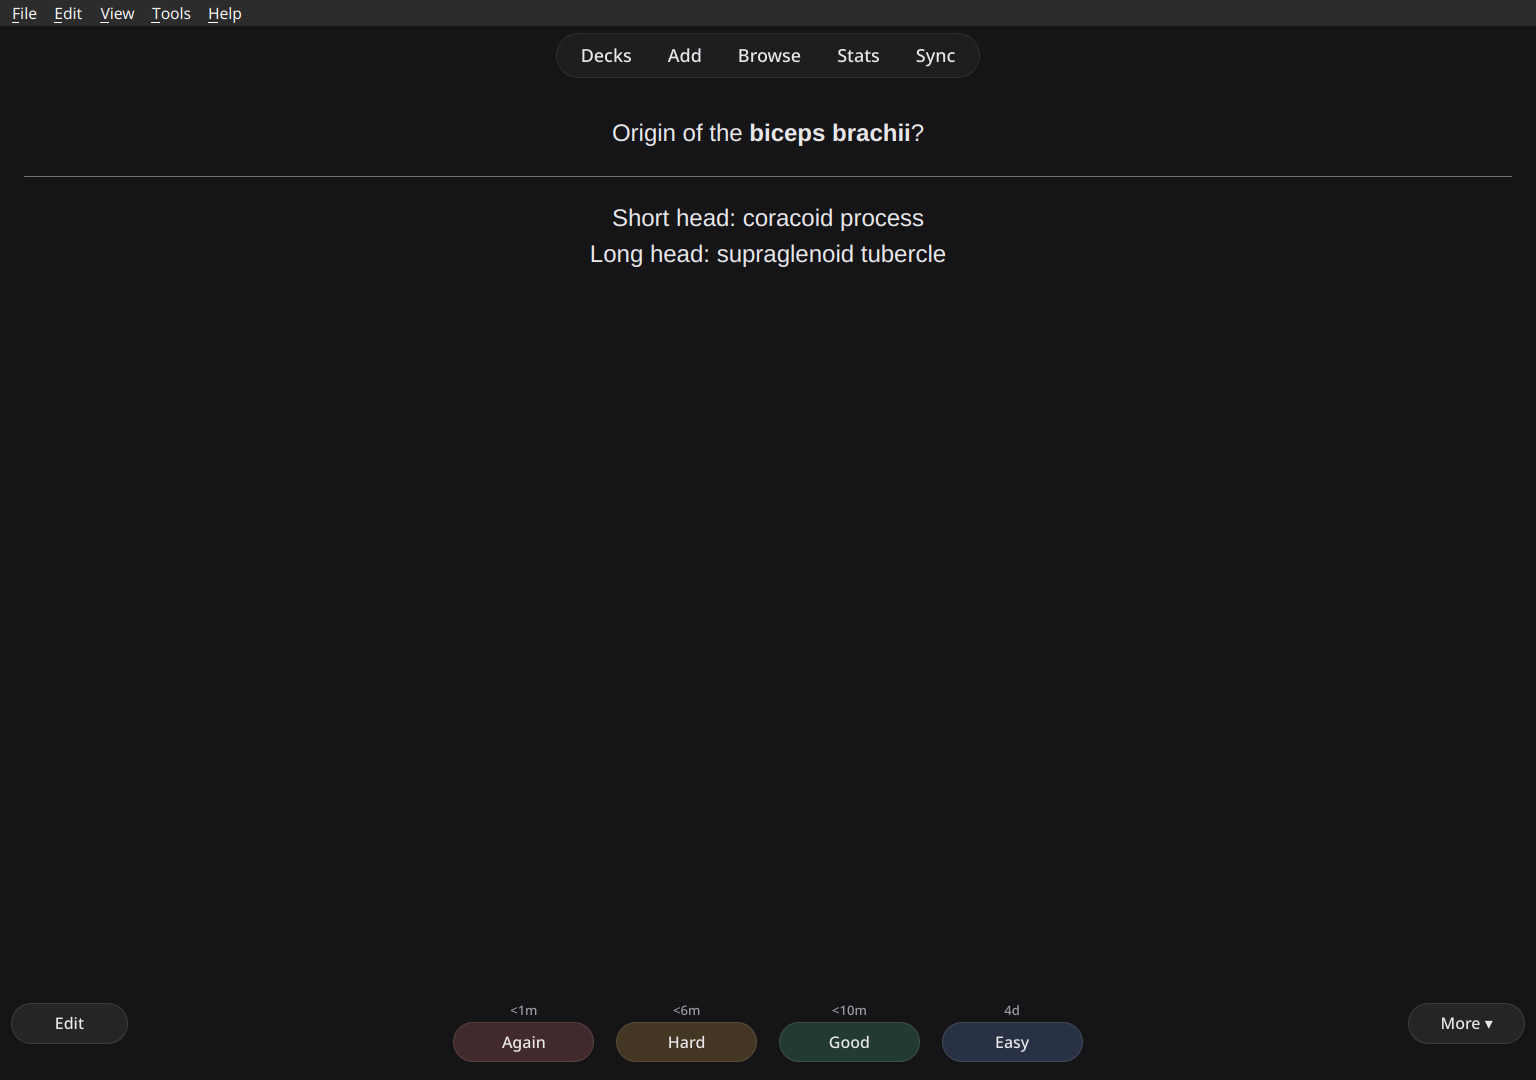
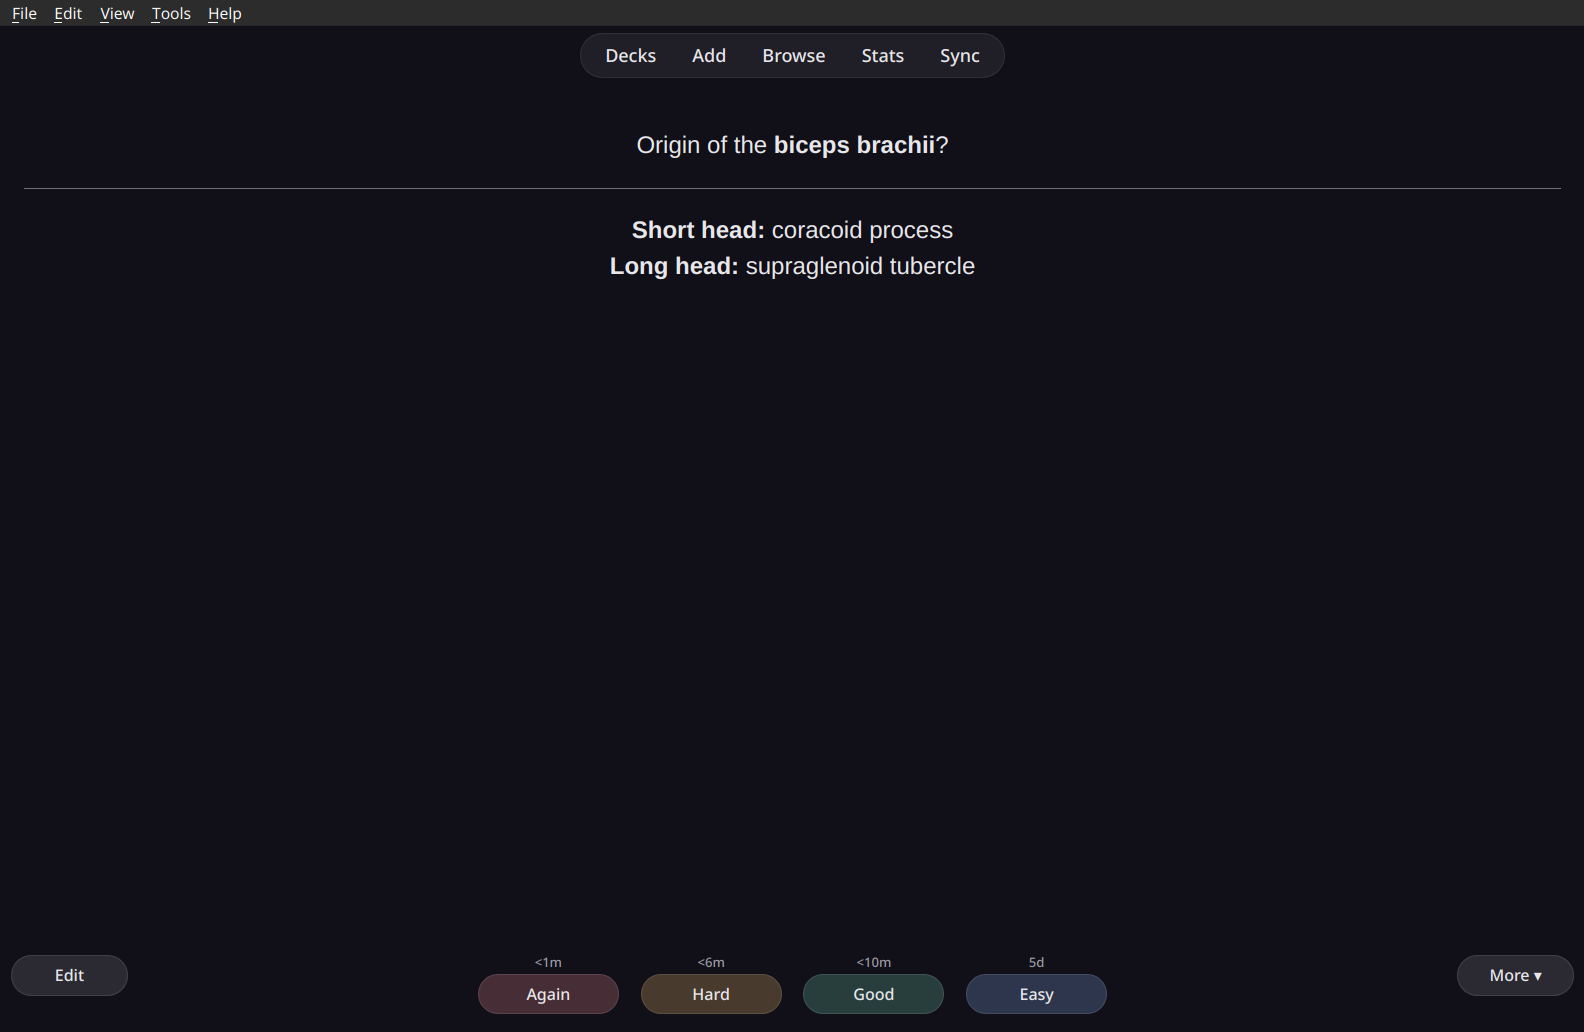
New English screenshots and refreshed README

diff --git a/README.md b/README.md
@@ -1,51 +1,71 @@
 # Deckorator
 
-**Decorate your Anki decks.** A modern, customizable theme for Anki's deck list, overview and study screen. It stays quiet while you study.
+**Decorate your Anki decks.** A modern, customizable theme for Anki's deck list, overview, study screen and windows. It stays quiet while you study.
 
-![Deck list with spotlight background](screenshots/home-dark.png)
+![Lofi city theme pack](screenshots/home-lofi.png)
 
 **Install:** in Anki go to *Tools → Add-ons → Get Add-ons…* and enter **`1326296861`**
 ([AnkiWeb page](https://ankiweb.net/shared/info/1326296861))
 
 ## Features
 
-- **46 theme packs**, including the Omarchy color themes for a complete look in one click: illustrated (Fuji, lofi city, sakura, mountains, planet, flow lines, topography, Bauhaus) and photo wallpapers
-- **Illustrated wallpapers** drawn for Deckorator: they take on your accent color and have light and dark versions
-- **Banner in the top bar** behind Decks, Add, Browse …
-- **My designs**: save your look, or turn any wallpaper into a complete theme (accent and tones adapt), share as a .deckorator file
+**Looks**
+- **46 theme packs** for a complete look in one click: illustrations, photos, the Omarchy color themes (Catppuccin, Gruvbox, Nord, Tokyo Night …) and minimal patterns
+- **Illustrated wallpapers** drawn for Deckorator that take on your accent color, with light and dark versions
+- **My designs**: save your look or turn any wallpaper into a complete theme (accent and tones adapt), share as `.deckorator` files
+- **Online gallery**: browse wallpapers from Omarchy and ML4W on GitHub and use them as designs
+- **21 color presets**, a quick color pick, or take the accent from your **system** or **desktop wallpaper**
+- **Backgrounds**: spotlight, dot grid, line grid, grain, waves, illustration, your own image (also a separate one for dark mode) or your **desktop wallpaper**
+- **Banner** behind the top bar, or only inside the tab capsule
+
+**Studying**
+- **Calm study mode**: the background stays quiet so the card comes first
+- **Card designs**: six styles for any note type, previewed on your own cards and fully reversible
+- Readable review counters, answer buttons tinted by rating, "studied today" highlighted
+
+**Windows & add-ons**
+- **Card browser, editor, statistics, deck options, preferences and add-ons window** in the same style, bold or subtle
+- **Every area adjustable**: Deckorator look or Anki's original, per window
 - **Add-on center**: your add-ons as cards with a switch, settings and page link
-- **Plays well with other add-ons**: their content below the deck list gets a matching card; other theme add-ons are detected
-- **Online gallery**: browse wallpapers from Omarchy and ML4W on GitHub and turn them into designs
-- **Card designs**: six styles for any note type (clean, index card, minimal, focus, study notes, like my theme), previewed on your own cards and fully reversible
-- **Every area adjustable**: bold, subtle or Anki's original look, per window
-- **8 color presets** or your own accent color. The accent can also come from your **system accent color** or your **desktop wallpaper**.
-- **Backgrounds:** spotlight, dot grid, line grid, grain, waves, your own image, or your **desktop wallpaper**. The wallpaper is re-synced on every start, and live/video wallpapers become a still image.
-- **Calm study mode:** while you review, the background stays quiet so the card comes first.
-- **Readable review counters** (new / learning / review) and tinted answer buttons
-- **"Studied today" highlighted** on the home screen
-- **[Review Heatmap](https://ankiweb.net/shared/info/1771074083) support:** fully restyled, colors only, or left untouched
-- **Performance mode:** on weak laptops (4 CPU threads or less, software rendering, on battery) blur is switched off automatically
-- **Card browser, editor, statistics, deck options, preferences and add-ons window** in the same style (flag, marked and suspended colors stay as in Anki), each can be switched off
-- **Settings window with a live preview of your own decks and cards**, light and dark mode, theme export and import
+- Content other add-ons place below the deck list gets a matching card; other theme add-ons are detected
+- **[Review Heatmap](https://ankiweb.net/shared/info/1771074083) support**: fully restyled, colors only, or left untouched
+
+**Comfort**
+- **Performance mode**: blur is switched off automatically on weak laptops; glow effects can be turned off
+- **Settings window with a live preview** of your own decks, cards and windows, light and dark
 - English and German interface, follows Anki's language
 
-| Waves, dark | Dot grid, light |
+## Screenshots
+
+| Fuji with banner in the tab bar | Catppuccin (Omarchy color theme) |
 |---|---|
-| ![Waves background](screenshots/home-waves-dark.png) | ![Dot grid background, light mode](screenshots/home-light.png) |
+| ![Fuji](screenshots/home-fuji.png) | ![Catppuccin](screenshots/home-catppuccin.png) |
 
-| Studying: question | Studying: answer |
+| Winter, dark mode (aurora photo) | Clouds, light mode |
 |---|---|
-| ![Calm study screen with counters](screenshots/study-question.png) | ![Answer buttons tinted by rating](screenshots/study-answer.png) |
+| ![Winter dark](screenshots/home-winter-dark.png) | ![Clouds light](screenshots/home-clouds-light.png) |
 
-![Card browser](screenshots/browser.png)
+| Calm study screen | Answer buttons tinted by rating |
+|---|---|
+| ![Study question](screenshots/study-question.png) | ![Study answer](screenshots/study-answer.png) |
 
-![Settings window with live preview](screenshots/settings.png)
+| Card browser | Statistics |
+|---|---|
+| ![Card browser](screenshots/browser.png) | ![Statistics](screenshots/stats.png) |
+
+**Settings**: designs, card designs and areas, all with a live preview
+
+![Designs page](screenshots/settings-designs.png)
+
+| Card designs | Areas & window preview |
+|---|---|
+| ![Card designs](screenshots/settings-cards.png) | ![Areas](screenshots/settings-areas.png) |
 
 ## Settings
 
 *Tools → Deckorator – Theme settings…* or the **Config** button in the add-on manager.
 
-Deckorator only changes how Anki looks. Your cards and note types are never modified. During reviews, card backgrounds come from your note type unless you choose otherwise.
+Deckorator only changes how Anki looks. It never touches your cards. The one exception you control yourself: **card designs** add a clearly marked CSS block to the note types you choose, and "Remove style" restores the original.
 
 ## Reporting a problem
 

diff --git a/ankiweb_description.md b/ankiweb_description.md
@@ -1,6 +1,6 @@
 **Decorate your Anki decks.** Deckorator gives the deck list, overview and study screen a clean, modern look, and it stays quiet while you study.
 
-![Deck list](https://raw.githubusercontent.com/TruckDrive/deckorator/main/screenshots/home-dark.png)
+![Deck list](https://raw.githubusercontent.com/TruckDrive/deckorator/main/screenshots/home-lofi.png)
 
 ### Features
 
@@ -22,9 +22,9 @@
 - **Card browser, editor, statistics, deck options, preferences and add-ons window** in the same style
 - **Settings window with a live preview of your own decks and cards**
 
-![Study screen](https://raw.githubusercontent.com/TruckDrive/deckorator/main/screenshots/study-answer.png)
+![Study screen](https://raw.githubusercontent.com/TruckDrive/deckorator/main/screenshots/home-fuji.png)
 
-![Settings](https://raw.githubusercontent.com/TruckDrive/deckorator/main/screenshots/settings.png)
+![Settings](https://raw.githubusercontent.com/TruckDrive/deckorator/main/screenshots/settings-designs.png)
 
 ### How to use
 
@@ -32,6 +32,6 @@
 
 ### Good to know
 
-- Only changes how Anki looks. Your cards and note types are never modified.
+- Only changes how Anki looks and never touches your cards. Card designs add a marked, removable CSS block to the note types you choose.
 - Nothing is ever sent anywhere.
 - Found a problem? Open **Settings → Advanced → Copy diagnostic report** and post it on [GitHub](https://github.com/TruckDrive/deckorator/issues). That helps me fix it quickly.
